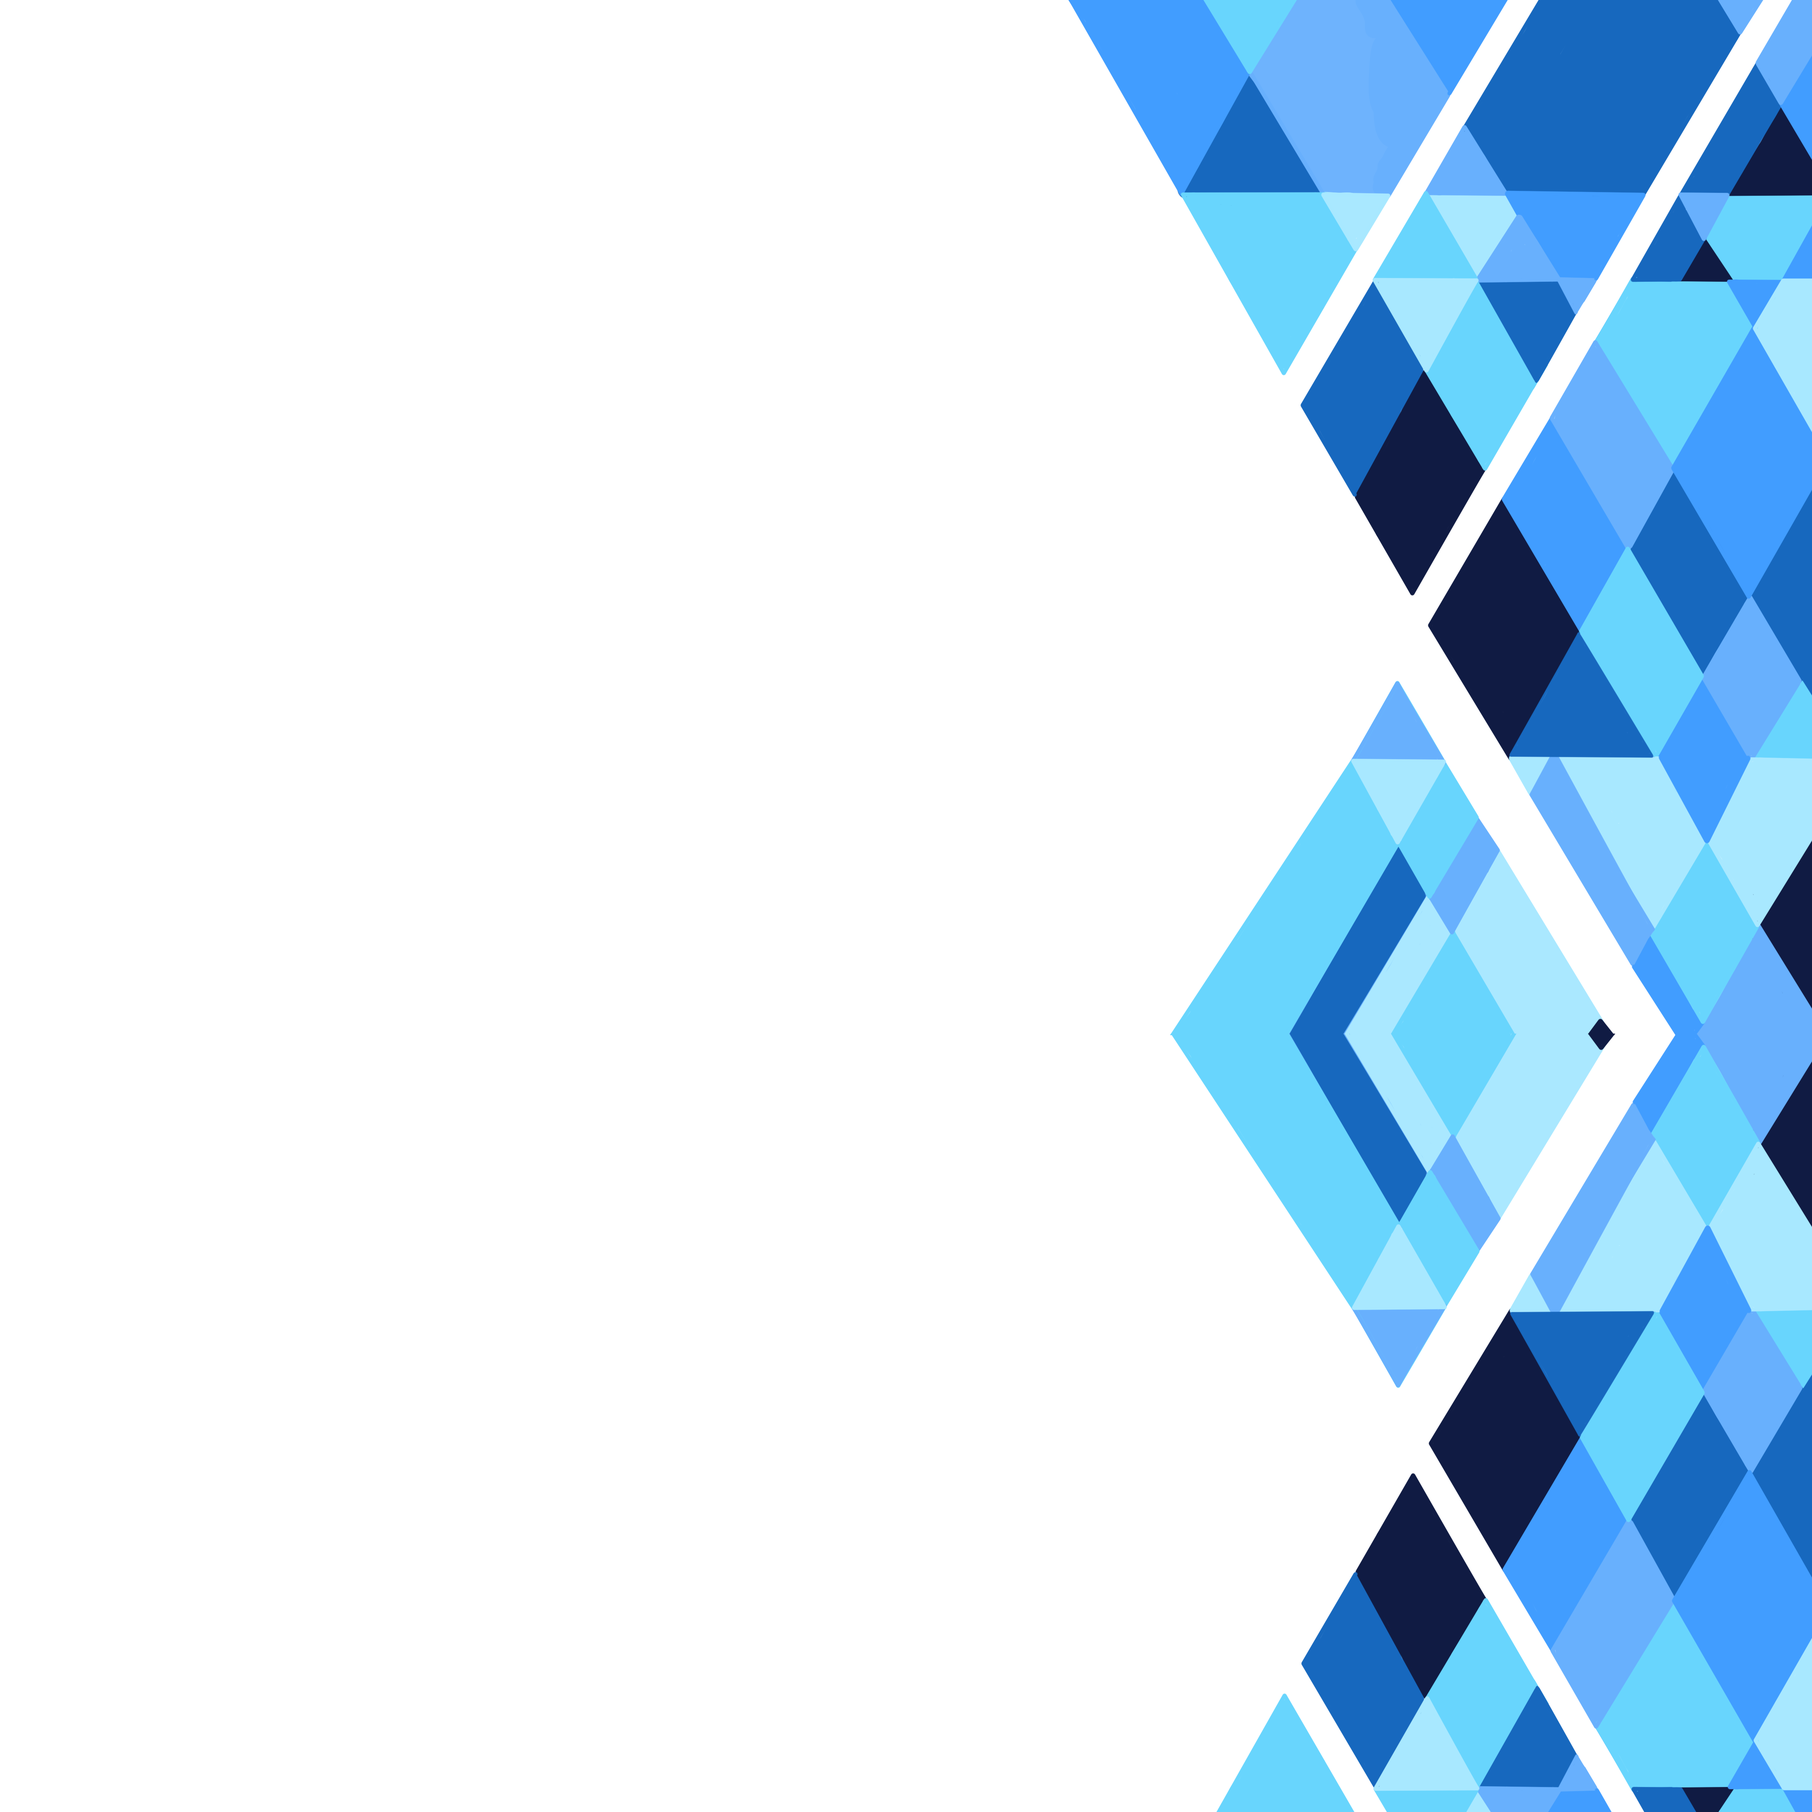
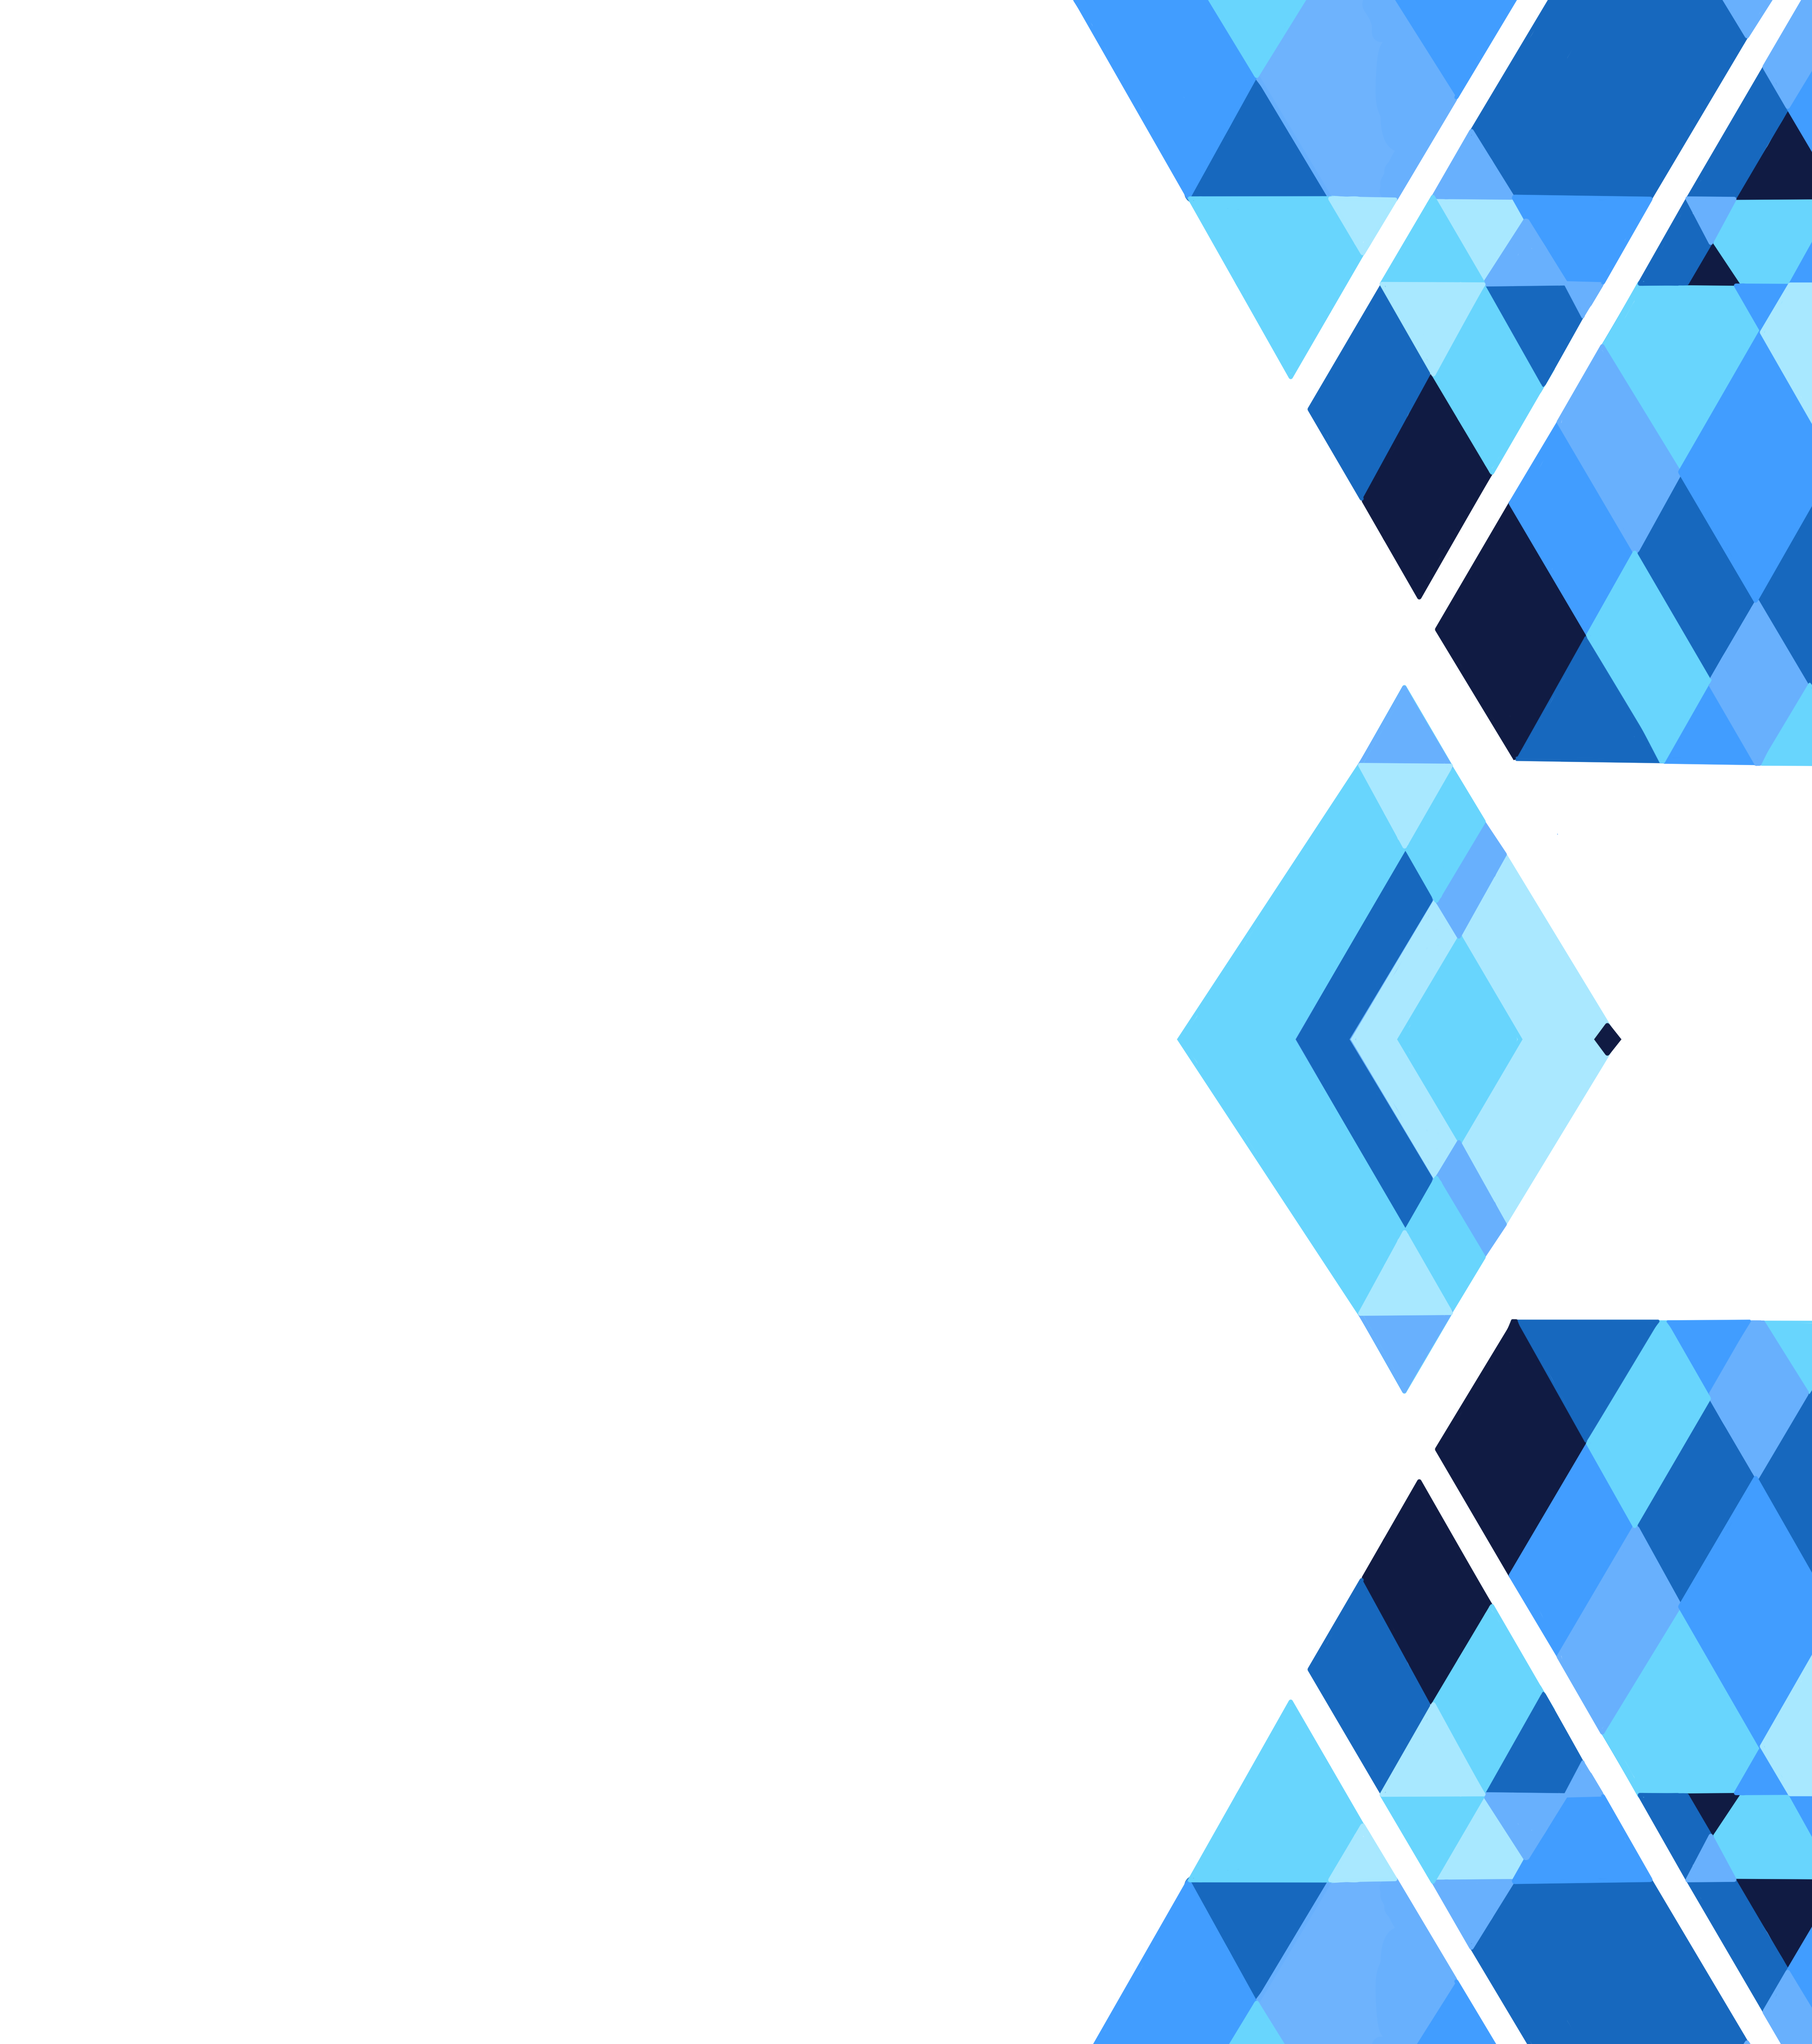
professional Website - Changed Background Exp.

diff --git a/Rhi Professional Website/mysite.html b/Rhi Professional Website/mysite.html
@@ -312,7 +312,7 @@
     <h1 class="skills-title">Experience</h1>
 
    <div class="row exp-row">
-     <div class="col-md-10 col-lg-6">
+     <div class="col-md-9 col-lg-6">
 
         <h3 class="job-title">Texas Think</h3>
         <h5 class="job-desc">Web Manager & Designer / Apr 2020 - Present</h5>
@@ -347,7 +347,7 @@
 
 
    <div class="row exp-row">
-      <div class="col-md-10 col-lg-6">
+      <div class="col-md-9 col-lg-6">
 
         <h3 class="job-title">RhiDesigns</h3>
         <h5 class="job-desc">Founder & CEO / Mar 2017 - Present</h5>
@@ -371,6 +371,8 @@
       </div>
 
    </div>
+
+
 </div>
 
 </section>

diff --git a/Rhi Professional Website/mysite.css b/Rhi Professional Website/mysite.css
@@ -228,11 +228,16 @@ body {
 
 .experience-section {
     padding-top: 80px;
+    padding-bottom: 180px;
 }
 
 .exp-container {
     background-image: url("prof-images/triangles.png");
     background-size: cover;
+    background-position: right center;
+    background-repeat: no-repeat;
+    padding-bottom: 100px;
+
 }
 
 .exp-row {
